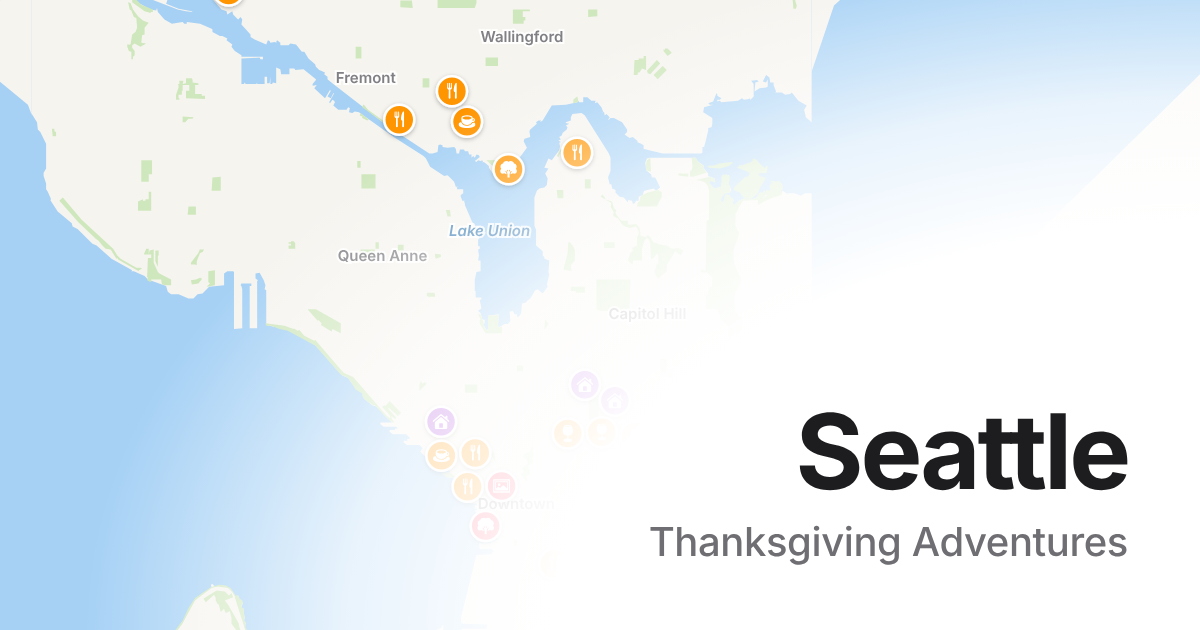
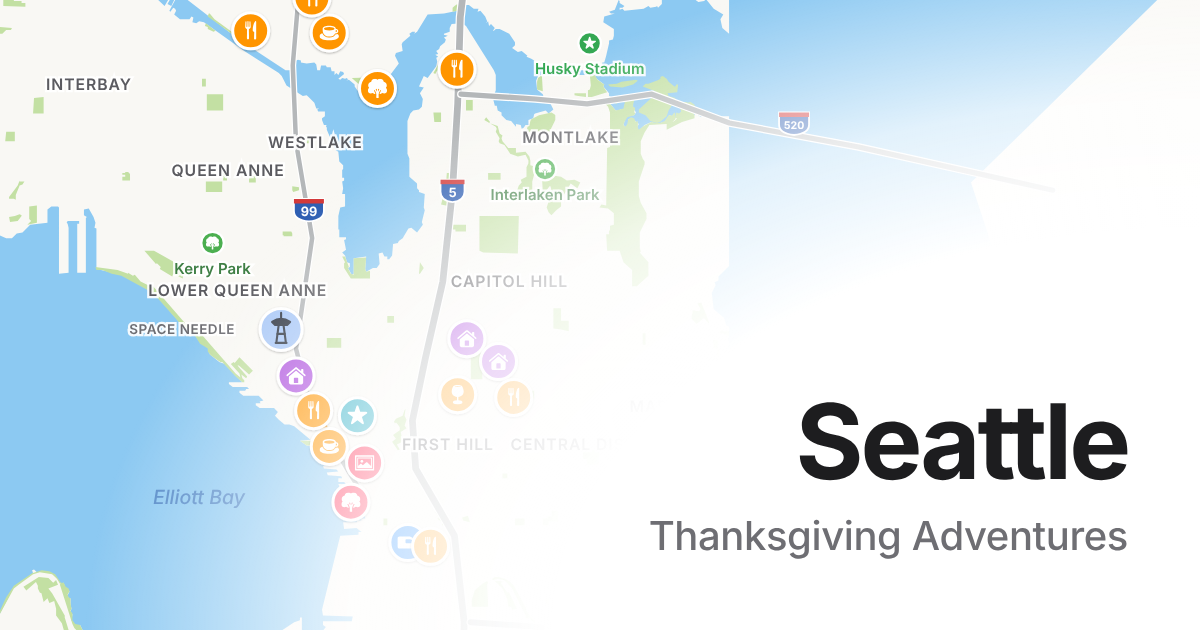
Seattle: social preview in the new map style
Claude-Session: https://claude.ai/code/session_018zWLrPsABMWPBQ986UGUz9

diff --git a/seattle.html b/seattle.html
@@ -309,7 +309,8 @@ todo.forEach((t,i)=>t.no=i+1);todo[0].ic='tree';todo[1].ic='art';todo[2].ic='sta
 $('todo').innerHTML=todo.map(t=>`<li>${thumb(t,'var(--do)')}<span class="name">${esc(t.n)}</span><span class="sub">${ico('clock')}${esc(t.k)}</span>${t.h?`<span class="sub">${esc(t.h)}</span>`:''}<span class="links"><a href="${t.u}">${t.l}</a><a href="${mapUrl(t)}">Maps</a></span></li>`).join('');
 
 /* Maps */
-const fp=Object.values(P).filter(p=>p.ll);const sets={stay:stays,eatS:groups[0][3].map(k=>P[k]),eatN:groups[1][3].map(k=>P[k]),do:todo};
+const fp=Object.values(P).filter(p=>p.ll);stays.forEach(x=>x.col='var(--stay)');Object.values(P).forEach(x=>x.col='var(--eat)');todo.forEach(x=>x.col='var(--do)');
+const sets={all:[...stays,...['piroshky','spinasse','ladive','tanhuo','localtide','situ','steakeasy','seawolf','gasworks','kamonegi','backyard','pinkdoor'].map(k=>P[k]),todo[0],todo[1]],stay:stays,eatS:groups[0][3].map(k=>P[k]),eatN:groups[1][3].map(k=>P[k]),do:todo};
 const HOODS=[['Ballard',47.6690,-122.3840],['Fremont',47.6530,-122.3520],['Wallingford',47.6615,-122.3340],['University District',47.6625,-122.3125],['Magnolia',47.6500,-122.4000],['Interbay',47.6460,-122.3790],['Queen Anne',47.6370,-122.3575],['Lower Queen Anne',47.6245,-122.3560],['Westlake',47.6400,-122.3440],['Eastlake',47.6430,-122.3265],['Montlake',47.6405,-122.3045],['South Lake Union',47.6255,-122.3375],['Capitol Hill',47.6255,-122.3140],['Belltown',47.6145,-122.3465],['Downtown',47.6055,-122.3350],['First Hill',47.6085,-122.3235],['Central District',47.6085,-122.3010],['Madrona',47.6125,-122.2885],['Pioneer Square',47.6005,-122.3320],['International District',47.5975,-122.3235],['SODO',47.5830,-122.3345]];
 const WATERS=[['Elliott Bay',47.6030,-122.3620,13],['Lake Union',47.6380,-122.3378,12],['Portage Bay',47.6478,-122.3125,10],['Union Bay',47.6535,-122.2900,11],['Lake Washington',47.6150,-122.2700,14],['Salmon Bay',47.6625,-122.3920,10],['Puget Sound',47.6250,-122.4250,14]];
 const PARKS=[['Discovery Park',47.6573,-122.4058],['Volunteer Park',47.6300,-122.3150],['Interlaken Park',47.6372,-122.3085],['Washington Park Arboretum',47.6395,-122.2945],['Cal Anderson Park',47.6172,-122.3195],['Kerry Park',47.6295,-122.3599],['Myrtle Edwards Park',47.6195,-122.3600],['Madrona Park',47.6125,-122.2780]];
@@ -323,7 +324,7 @@ const HWY=[
 ];
 const refs=[{n:'King Street Station',ic:'train',c:'#007aff',ll:[47.5983,-122.3297],q:'King Street Station, Seattle, WA'},{n:'City center',ic:'star',c:'#30b0c7',ll:[47.6115,-122.3375],q:'Westlake Center, Seattle, WA'},{n:'SEA Airport',ic:'plane',c:'#5856d6',ll:[47.4502,-122.3088],q:'Seattle-Tacoma International Airport'}];
 const miles=(a,b)=>{const R=3958.8,r=Math.PI/180,dl=(b[0]-a[0])*r,dn=(b[1]-a[1])*r;const h=Math.sin(dl/2)**2+Math.cos(a[0]*r)*Math.cos(b[0]*r)*Math.sin(dn/2)**2;return 2*R*Math.asin(Math.sqrt(h))};
-const cols={stay:'var(--stay)',eatS:'var(--eat)',eatN:'var(--eat)',do:'var(--do)'};
+const cols={all:null,stay:'var(--stay)',eatS:'var(--eat)',eatN:'var(--eat)',do:'var(--do)'};
 document.querySelectorAll('.map').forEach(el=>{
  const key=el.dataset.set,pts=sets[key];
  const xy=pts.map(p=>prj(p.ll));
@@ -334,16 +335,17 @@ document.querySelectorAll('.map').forEach(el=>{
   let x0=Math.min(...fit.map(p=>p[0])),x1=Math.max(...fit.map(p=>p[0])),y0=Math.min(...fit.map(p=>p[1])),y1=Math.max(...fit.map(p=>p[1]));
   const minSpan=key==='eatS'||key==='eatN'?160:320;
   let cx=(x0+x1)/2,cy=(y0+y1)/2,sw=Math.max(x1-x0,minSpan),sh=Math.max(y1-y0,minSpan);
-  const pad=40,s=Math.min((W-pad*2)/sw,(H-pad*2)/sh);
+  let pad=40,s=Math.min((W-pad*2)/sw,(H-pad*2)/sh);
+  if(el.dataset.view){const v=el.dataset.view.split(',').map(Number),c=prj([v[0],v[1]]);cx=c[0];cy=c[1];s=W/v[2]}
   const vw=W/s,vh=H/s,vx=cx-vw/2,vy=cy-vh/2,u=1/s;
   const inV=(x,y,m)=>x>vx+m*u&&x<vx+vw-m*u&&y>vy+10*u&&y<vy+vh-8*u;
   const T=(cls,x,y,n,fs,anc='middle')=>`<text class="${cls}" x="${x}" y="${y}" text-anchor="${anc}" font-size="${fs*u}" stroke-width="${3*u}">${n}</text>`;
   const line=pts=>pts.map((p,i)=>{const [x,y]=prj(p);return (i?'L':'M')+x+' '+y}).join('');
   const pos=xy.map(p=>[p[0],p[1]]),gap=26*u;
-  if(!wide)for(let it=0;it<80;it++)for(let a=0;a<pos.length;a++)for(let b=a+1;b<pos.length;b++){
+  if(!wide&&!el.dataset.norelax)for(let it=0;it<80;it++)for(let a=0;a<pos.length;a++)for(let b=a+1;b<pos.length;b++){
    let dx=pos[b][0]-pos[a][0],dy=pos[b][1]-pos[a][1],d=Math.hypot(dx,dy);
    if(d<gap){if(d<1e-6){dx=Math.cos(a+b);dy=Math.sin(a+b);d=1}const m=(gap-d)/2/d;pos[a][0]-=dx*m;pos[a][1]-=dy*m;pos[b][0]+=dx*m;pos[b][1]+=dy*m}}
-  const leads=pos.map((q,i)=>Math.hypot(q[0]-xy[i][0],q[1]-xy[i][1])>4*u?`<line class="lead" x1="${xy[i][0]}" y1="${xy[i][1]}" x2="${q[0]}" y2="${q[1]}" stroke-width="${1*u}"/><circle cx="${xy[i][0]}" cy="${xy[i][1]}" r="${2*u}" fill="${cols[key]}"/>`:'').join('');
+  const leads=pos.map((q,i)=>Math.hypot(q[0]-xy[i][0],q[1]-xy[i][1])>4*u?`<line class="lead" x1="${xy[i][0]}" y1="${xy[i][1]}" x2="${q[0]}" y2="${q[1]}" stroke-width="${1*u}"/><circle cx="${xy[i][0]}" cy="${xy[i][1]}" r="${2*u}" fill="${pts[i].col||cols[key]}"/>`:'').join('');
   const occ=[];const free=(x,y,w,h)=>!occ.some(([a,b,c,d])=>x<a+c&&x+w>a&&y<b+d&&y+h>b);
   const inB=(x,y,w,h)=>x>vx+4*u&&x+w<vx+vw-4*u&&y>vy+4*u&&y+h<vy+vh-4*u;
   pos.forEach(([x,y])=>occ.push([x-14*u,y-14*u,28*u,28*u]));
@@ -385,7 +387,7 @@ document.querySelectorAll('.map').forEach(el=>{
     offSvg+=`<a href="${href}" aria-label="${esc(r.n)}, ${mi} miles"><title>${esc(r.n)}, ${mi} mi</title><path d="M${ax+4*u} ${ay}L${ax-3*u} ${ay-4.5*u}L${ax-3*u} ${ay+4.5*u}Z" fill="${r.c}" transform="rotate(${deg} ${ax} ${ay})"/>${refPin(ex,ey,r)}${T('ref-d',ex,ey-19*u,mi+' mi',10)}</a>`;
     return '';
   }).join('');
-  const pins=leads+refSvg+pts.map((p,i)=>{const [x,y]=pos[i];return `<a href="${mapUrl(p)}" aria-label="${esc(p.n)}"><title>${esc(p.n)}</title>${wide?`<circle cx="${x}" cy="${y}" r="${5*u}" fill="${cols[key]}" stroke="#fff" stroke-width="${1.5*u}"/>`:pin(x,y,u,cols[key],p.ic)}</a>`}).join('');
+  const pins=leads+refSvg+pts.map((p,i)=>{const [x,y]=pos[i];return `<a href="${mapUrl(p)}" aria-label="${esc(p.n)}"><title>${esc(p.n)}</title>${wide?`<circle cx="${x}" cy="${y}" r="${5*u}" fill="${p.col||cols[key]}" stroke="#fff" stroke-width="${1.5*u}"/>`:pin(x,y,u,p.col||cols[key],p.ic)}</a>`}).join('');
   el.innerHTML=`<svg viewBox="${vx} ${vy} ${vw} ${vh}" xmlns="http://www.w3.org/2000/svg"><rect x="${vx}" y="${vy}" width="${vw}" height="${vh}" class="land"/><use href="#water" class="wat"/><rect x="0" y="0" width="943" height="1200" class="wat"/><use href="#land" class="land"/><use href="#parks" class="park"/>${base}${lab}${pins}${offSvg}</svg><a class="obtn" target="_blank" rel="noopener" href="https://maps.apple.com/?ll=${ctr[0].toFixed(5)},${ctr[1].toFixed(5)}&spn=${(vh/1e4).toFixed(4)},${(vw/(K*1e4)).toFixed(4)}">Open in Maps<svg aria-hidden="true"><use href="#i-ext"/></svg></a>`;
  };
  const ro=new ResizeObserver(draw);ro.observe(el);
